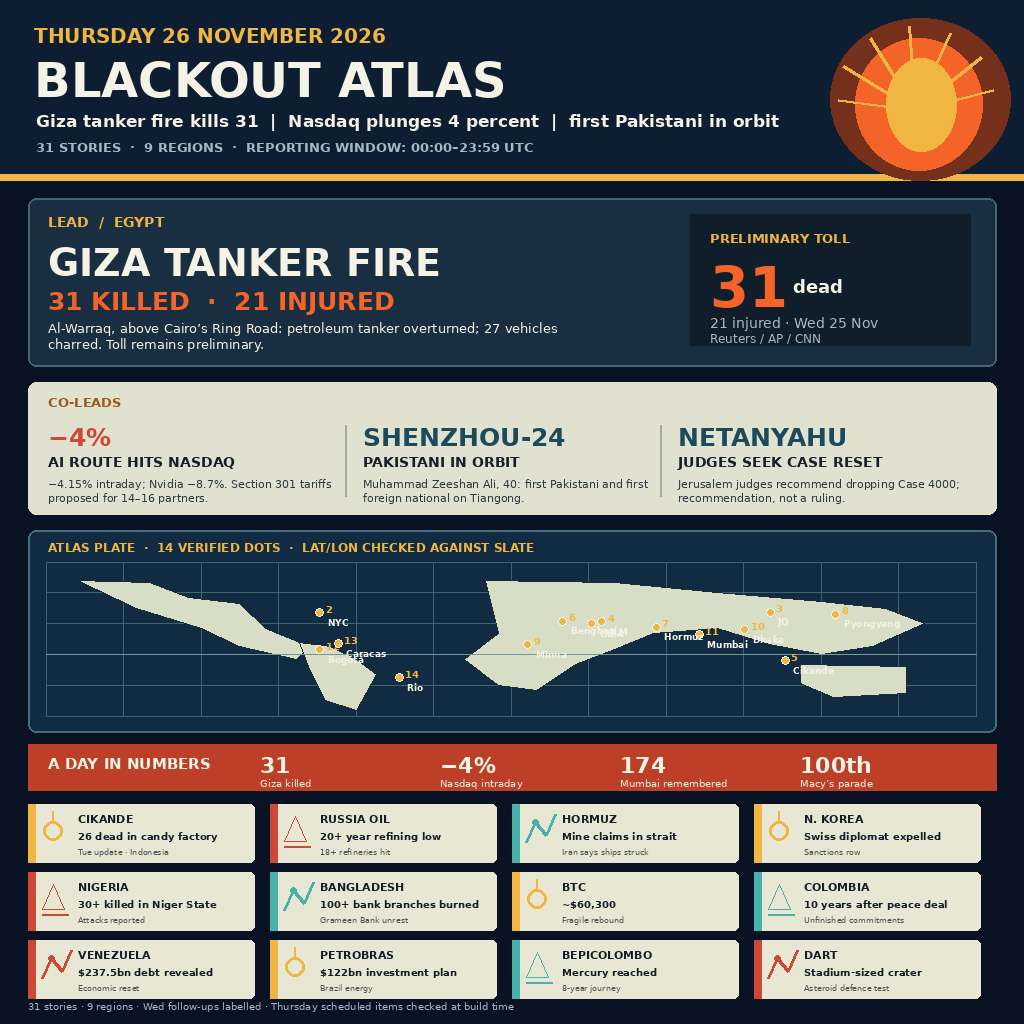
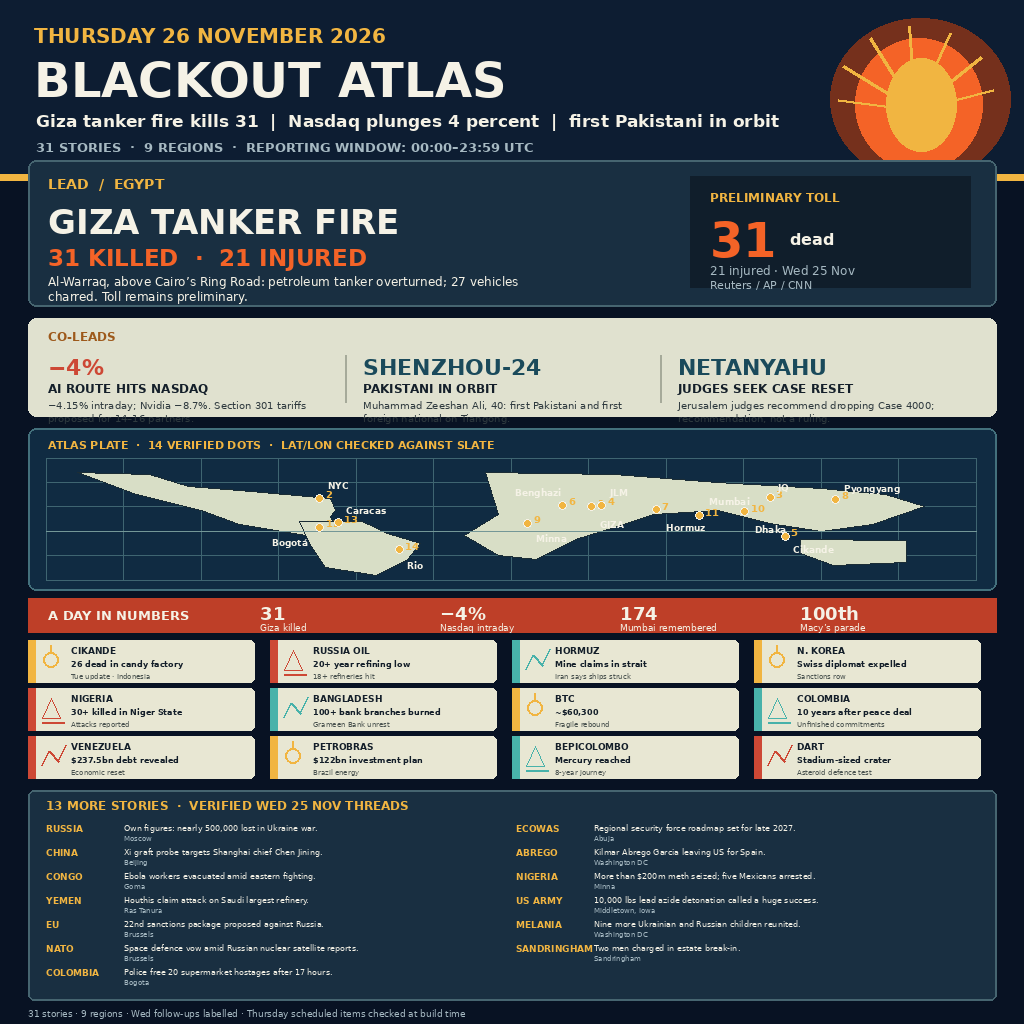
NI26 fix: 31 stories countable, map land and labels fixed

diff --git a/render.py b/render.py
@@ -32,37 +32,37 @@ for i in range(7):
     d.line((915,110,x,y),fill=GOLD,width=3)
 
 # lead panel
-d.rounded_rectangle((28,198,996,366),radius=8,fill=(25,47,65),outline=(70,101,112),width=2)
-txt(48,214,'LEAD  /  EGYPT',14,GOLD,True)
-txt(48,240,'GIZA TANKER FIRE',38,WHITE,True)
-txt(48,286,'31 KILLED  ·  21 INJURED',25,ORANGE,True)
-wrap(48,320,'Al-Warraq, above Cairo’s Ring Road: petroleum tanker overturned; 27 vehicles charred. Toll remains preliminary.',515,13,WHITE,False)
-d.rectangle((690,214,970,345),fill=(16,30,43)); txt(710,230,'PRELIMINARY TOLL',13,GOLD,True)
-txt(710,255,'31',56,ORANGE,True); txt(793,276,'dead',18,WHITE,True)
-txt(710,315,'21 injured · Wed 25 Nov',14,MUTED); txt(710,331,'Reuters / AP / CNN',12,MUTED)
+d.rounded_rectangle((28,160,996,306),radius=8,fill=(25,47,65),outline=(70,101,112),width=2)
+txt(48,176,'LEAD  /  EGYPT',14,GOLD,True)
+txt(48,202,'GIZA TANKER FIRE',34,WHITE,True)
+txt(48,244,'31 KILLED  ·  21 INJURED',23,ORANGE,True)
+wrap(48,274,'Al-Warraq, above Cairo’s Ring Road: petroleum tanker overturned; 27 vehicles charred. Toll remains preliminary.',515,12,WHITE,False)
+d.rectangle((690,176,970,287),fill=(16,30,43)); txt(710,190,'PRELIMINARY TOLL',12,GOLD,True)
+txt(710,212,'31',48,ORANGE,True); txt(790,230,'dead',16,WHITE,True)
+txt(710,263,'21 injured · Wed 25 Nov',12,MUTED); txt(710,278,'Reuters / AP / CNN',11,MUTED)
 
 # co-leads
-d.rounded_rectangle((28,382,996,514),radius=8,fill=(224,225,207))
-txt(48,394,'CO-LEADS',13,(157,89,27),True)
+d.rounded_rectangle((28,318,996,416),radius=8,fill=(224,225,207))
+txt(48,329,'CO-LEADS',12,(157,89,27),True)
 cols=[('−4%','AI ROUTE HITS NASDAQ','−4.15% intraday; Nvidia −8.7%. Section 301 tariffs proposed for 14–16 partners.'),('SHENZHOU-24','PAKISTANI IN ORBIT','Muhammad Zeeshan Ali, 40: first Pakistani and first foreign national on Tiangong.'),('NETANYAHU','JUDGES SEEK CASE RESET','Jerusalem judges recommend dropping Case 4000; recommendation, not a ruling.')]
 for i,(big,head,body) in enumerate(cols):
     x=48+i*315
-    if i: d.line((x-18,425,x-18,496),fill=(166,170,154),width=2)
-    txt(x,422,big,25,(26,74,91) if i!=0 else RED,True)
-    txt(x,454,head,14,DARK,True); wrap(x,477,body,285,11,(46,57,62),False)
+    if i: d.line((x-18,355,x-18,402),fill=(166,170,154),width=2)
+    txt(x,354,big,22,(26,74,91) if i!=0 else RED,True)
+    txt(x,381,head,12,DARK,True); wrap(x,399,body,285,10,(46,57,62),False)
 
 # atlas
-d.rounded_rectangle((28,530,996,732),radius=8,fill=OCEAN,outline=(67,112,124),width=2)
-txt(48,540,'ATLAS PLATE  ·  14 VERIFIED DOTS  ·  LAT/LON CHECKED AGAINST SLATE',12,GOLD,True)
-mx,my,mw,mh=46,562,930,154
+d.rounded_rectangle((28,428,996,590),radius=8,fill=OCEAN,outline=(67,112,124),width=2)
+txt(48,438,'ATLAS PLATE  ·  14 VERIFIED DOTS  ·  LAT/LON CHECKED AGAINST SLATE',11,GOLD,True)
+mx,my,mw,mh=46,458,930,122
 # graticule
 for lon in range(-180,181,30):
     x=mx+(lon+180)/360*mw; d.line((x,my,x,my+mh),fill=(63,101,113),width=1)
 for lat in range(-60,91,30):
     y=my+(90-lat)/150*mh; d.line((mx,y,mx+mw,y),fill=(63,101,113),width=1)
 # hand-drawn continent polygons in equirect projection
-polys=[ [(-168,72),(-140,70),(-125,55),(-105,50),(-95,25),(-78,8),(-83,-5),(-105,8),(-120,25),(-145,45)],
- [(-82,12),(-70,8),(-60,-5),(-52,-20),(-60,-55),(-72,-45),(-78,-15)],
+polys=[ [(-168,72),(-140,70),(-125,55),(-105,50),(-70,40),(-68,25),(-70,18),(-68,5),(-79,-5),(-105,8),(-120,25),(-145,45)],
+ [(-82,12),(-58,12),(-55,8),(-48,-3),(-35,-15),(-40,-35),(-52,-55),(-72,-45),(-78,-15)],
  [(-10,72),(40,70),(80,60),(120,52),(145,45),(160,30),(140,8),(120,0),(100,10),(80,25),(55,20),(40,5),(25,-10),(10,-35),(-5,-30),(-18,-5),(-5,20)],
  [(112,-10),(153,-12),(153,-38),(125,-42),(112,-28)] ]
 def proj(lon,lat): return (mx+(lon+180)/360*mw, my+(90-lat)/150*mh)
@@ -71,26 +71,47 @@ d.line((proj(-180,0),proj(180,0)),fill=(116,151,151),width=1)
 points=[('GIZA',31.21,30.06),('NYC',-74.01,40.71),('JIUQUAN',100.3,41),('JERUSALEM',35.21,31.77),('CIKANDE',106.1,-6.1),('BENGHAZI',20.07,32.12),('HORMUZ',56.3,26.5),('PYONGYANG',125.75,39.02),('MINNA',6.55,9.61),('DHAKA',90.41,23.81),('MUMBAI',72.88,19.08),('BOGOTA',-74.07,4.71),('CARACAS',-66.88,10.48),('RIO',-43.17,-22.91)]
 for i,(lab,lon,lat) in enumerate(points,1):
     x,y=proj(lon,lat); d.ellipse((x-4,y-4,x+4,y+4),fill=GOLD,outline=WHITE,width=1); txt(x+6,y-10,str(i),10,GOLD,True)
-labels=[('GIZA',31.21,30.06),('NYC',-74.01,40.71),('JQ',100.3,41),('JLM',35.21,31.77),('Cikande',106.1,-6.1),('Benghazi',20.07,32.12),('Hormuz',56.3,26.5),('Pyongyang',125.75,39.02),('Minna',6.55,9.61),('Dhaka',90.41,23.81),('Mumbai',72.88,19.08),('Bogotá',-74.07,4.71),('Caracas',-66.88,10.48),('Rio',-43.17,-22.91)]
-for lab,lon,lat in labels:
-    x,y=proj(lon,lat); txt(x+8,y+4,lab,9,WHITE,True)
+labels=[('GIZA',31.21,30.06,8,12),('NYC',-74.01,40.71,8,-18),('JQ',100.3,41,8,-16),('JLM',35.21,31.77,8,-18),('Cikande',106.1,-6.1,8,8),('Benghazi',20.07,32.12,-48,-18),('Hormuz',56.3,26.5,10,12),('Pyongyang',125.75,39.02,8,-16),('Minna',6.55,9.61,8,10),('Dhaka',90.41,23.81,10,12),('Mumbai',72.88,19.08,10,-20),('Bogotá',-74.07,4.71,-48,10),('Caracas',-66.88,10.48,8,-18),('Rio',-43.17,-22.91,8,10)]
+for lab,lon,lat,dx,dy in labels:
+    x,y=proj(lon,lat); txt(x+dx,y+dy,lab,9,WHITE,True)
 
 # numbers strip
-d.rectangle((28,744,996,790),fill=(190,63,40)); txt(48,755,'A DAY IN NUMBERS',15,WHITE,True)
+d.rectangle((28,598,996,632),fill=(190,63,40)); txt(48,607,'A DAY IN NUMBERS',13,WHITE,True)
 nums=[('31','Giza killed'),('−4%','Nasdaq intraday'),('174','Mumbai remembered'),('100th','Macy’s parade')]
 for i,(n,l) in enumerate(nums):
-    x=260+i*180; txt(x,752,n,22,WHITE,True); txt(x,777,l,10,WHITE)
+    x=260+i*180; txt(x,603,n,18,WHITE,True); txt(x,622,l,9,WHITE)
 
 # cards
 cards=[('CIKANDE','26 dead in candy factory','Tue update · Indonesia',GOLD),('RUSSIA OIL','20+ year refining low','18+ refineries hit',RED),('HORMUZ','Mine claims in strait','Iran says ships struck',TEAL),('N. KOREA','Swiss diplomat expelled','Sanctions row',GOLD),('NIGERIA','30+ killed in Niger State','Attacks reported',RED),('BANGLADESH','100+ bank branches burned','Grameen Bank unrest',TEAL),('BTC','~$60,300','Fragile rebound',GOLD),('COLOMBIA','10 years after peace deal','Unfinished commitments',TEAL),('VENEZUELA','$237.5bn debt revealed','Economic reset',RED),('PETROBRAS','$122bn investment plan','Brazil energy',GOLD),('BEPICOLOMBO','Mercury reached','8-year journey',TEAL),('DART','Stadium-sized crater','Asteroid defence test',RED)]
 for j,(head,body,sub,col) in enumerate(cards):
-    row=j//4; coln=j%4; x=28+coln*242; y=804+row*68
-    d.rounded_rectangle((x,y,x+226,y+58),radius=5,fill=PANEL)
-    d.rectangle((x,y,x+7,y+58),fill=col)
+    row=j//4; coln=j%4; x=28+coln*242; y=640+row*48
+    d.rounded_rectangle((x,y,x+226,y+42),radius=5,fill=PANEL)
+    d.rectangle((x,y,x+7,y+42),fill=col)
     # distinct mini-mark
-    if j%3==0: d.ellipse((x+15,y+17,x+34,y+36),outline=col,width=3); d.line((x+24,y+7,x+24,y+17),fill=col,width=2)
-    elif j%3==1: d.polygon([(x+14,y+37),(x+25,y+12),(x+36,y+37)],outline=col,fill=None); d.line((x+14,y+42,x+40,y+42),fill=col,width=2)
-    else: d.line((x+14,y+38,x+23,y+18,x+34,y+31,x+43,y+10),fill=col,width=3); d.ellipse((x+20,y+15,x+26,y+21),fill=col)
-    txt(x+50,y+8,head,11,DARK,True); txt(x+50,y+26,body,10,DARK,True); txt(x+50,y+43,sub,8,(73,82,79))
-txt(28,1000,'31 stories · 9 regions · Wed follow-ups labelled · Thursday scheduled items checked at build time',10,MUTED)
+    if j%3==0: d.ellipse((x+15,y+12,x+30,y+27),outline=col,width=2); d.line((x+22,y+5,x+22,y+12),fill=col,width=2)
+    elif j%3==1: d.polygon([(x+14,y+30),(x+23,y+10),(x+32,y+30)],outline=col,fill=None); d.line((x+14,y+34,x+36,y+34),fill=col,width=2)
+    else: d.line((x+14,y+29,x+21,y+15,x+30,y+25,x+38,y+9),fill=col,width=2)
+    txt(x+43,y+5,head,9,DARK,True); txt(x+43,y+19,body,8,DARK,True); txt(x+43,y+32,sub,7,(73,82,79))
+
+# 13 verified briefs: these are separate threads and make the 31-story count explicit.
+d.rounded_rectangle((28,790,996,1000),radius=6,fill=(25,47,65),outline=(70,101,112),width=2)
+txt(46,798,'13 MORE STORIES  ·  VERIFIED WED 25 NOV THREADS',12,GOLD,True)
+briefs=[
+ ('RUSSIA','Own figures: nearly 500,000 lost in Ukraine war.','Moscow'),
+ ('CHINA','Xi graft probe targets Shanghai chief Chen Jining.','Beijing'),
+ ('CONGO','Ebola workers evacuated amid eastern fighting.','Goma'),
+ ('YEMEN','Houthis claim attack on Saudi largest refinery.','Ras Tanura'),
+ ('EU','22nd sanctions package proposed against Russia.','Brussels'),
+ ('NATO','Space defence vow amid Russian nuclear satellite reports.','Brussels'),
+ ('COLOMBIA','Police free 20 supermarket hostages after 17 hours.','Bogota'),
+ ('ECOWAS','Regional security force roadmap set for late 2027.','Abuja'),
+ ('ABREGO','Kilmar Abrego Garcia leaving US for Spain.','Washington DC'),
+ ('NIGERIA','More than $200m meth seized; five Mexicans arrested.','Minna'),
+ ('US ARMY','10,000 lbs lead azide detonation called a huge success.','Middletown, Iowa'),
+ ('MELANIA','Nine more Ukrainian and Russian children reunited.','Washington DC'),
+ ('SANDRINGHAM','Two men charged in estate break-in.','Sandringham')]
+for i,(head,body,place) in enumerate(briefs):
+    coln=i//7; row=i%7; x=46+coln*470; y=823+row*24
+    txt(x,y,head,9,GOLD,True); txt(x+78,y,body,8,WHITE); txt(x+78,y+11,place,7,MUTED)
+txt(28,1008,'31 stories · 9 regions · Wed follow-ups labelled · Thursday scheduled items checked at build time',9,MUTED)
 img.save('/home/hatch/workspace/makefun/news-image-20261126-01/entry.png',optimize=True)

diff --git a/SOURCES.md b/SOURCES.md
@@ -18,3 +18,16 @@
 - Mumbai 26/11 18th anniversary, 174 dead in 2008, 26 Nov 2026: Reuters diary via Devdiscourse.
 - Bitcoin about $60,300, 25 Nov 2026: Finnhub, CoinGecko, Motley Fool.
 - Colombia peace accord decade, Venezuela $237.5bn debt, Petrobras $122bn plan, BepiColombo Mercury arrival, DART crater, Russia war losses, Xi/Shanghai probe, Congo Ebola evacuation, Houthi Ras Tanura claim, EU sanctions, NATO space defence, ECOWAS roadmap, Euro Summit: 25–26 Nov 2026 research ledger sources.
+- Russia's own figures, nearly 500,000 people lost in the Ukraine war, 25 Nov 2026: Libre News/Jabulani Radio reporting listed in research ledger §14.
+- Xi Jinping graft probe of Shanghai party chief Chen Jining, 25 Nov 2026: Libre News/Jabulani Radio reporting listed in research ledger §14.
+- Ebola response workers evacuated from eastern Congo amid fighting, 25 Nov 2026: research ledger §14 verified thread.
+- Houthi claim of attack on Saudi Arabia's largest refinery at Ras Tanura, 25 Nov 2026: research ledger §14 verified thread.
+- EU proposed 22nd sanctions package against Russia, 25 Nov 2026: research ledger §14 verified thread.
+- NATO space defence vow amid reports of a Russian nuclear satellite, 25 Nov 2026: research ledger §14 verified thread.
+- Colombia police freed 20 supermarket hostages after 17 hours, 25 Nov 2026: research ledger §14 verified thread.
+- ECOWAS roadmap for a regional security force by close of 2027, 25 Nov 2026: research ledger §14 verified thread.
+- Kilmar Abrego Garcia leaving the United States for Spain, 25 Nov 2026: CBS/BBC reporting cited in research ledger §14.
+- Nigeria seized more than $200 million of meth and arrested five Mexicans, 25 Nov 2026: research ledger §14 verified thread.
+- US Army controlled detonation of about 10,000 lbs deteriorating lead azide in Iowa, 23 Nov 2026 announcement: research ledger §14 verified thread.
+- Melania Trump helped reunite nine more Ukrainian and Russian children with families, 25 Nov 2026: research ledger §14 verified thread.
+- Two men charged in Sandringham Estate break-in, 25 Nov 2026: research ledger §14 verified thread.
